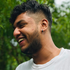
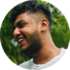
image size fix

diff --git a/scripts/imageOptimize.ts b/scripts/imageOptimize.ts
@@ -9,9 +9,10 @@ import sharp from 'sharp'; // You would need to install this: npm install sharp
 // ============================================================================
 const RESIZE_CONFIG = [
     // Format: { path: string, dimensions: string, quality: number }
-    { path: '../public/images/projects/irs-calculator', dimensions: '800x600', quality: 85 },
-    { path: '../public/images/projects/wkdkavishka-vue', dimensions: '800x600', quality: 85 },
-    { path: '../public/images/team', dimensions: '800x600', quality: 85 },
+    { path: '../public/images/projects/irs-calculator', dimensions: '400x300', quality: 85 },
+    { path: '../public/images/projects/wkdkavishka-vue', dimensions: '400x300', quality: 85 },
+    { path: '../public/images/team', dimensions: '400x300', quality: 85 },
+    { path: '../public/images/profile', dimensions: '800x600', quality: 85 },
 ];
 // ============================================================================
 
@@ -52,10 +53,29 @@ export class ImageProcessor {
 
                 const filePath = path.join(file.path, file.name);
                 const ext = path.extname(filePath).toLowerCase();
-                
-                // Skip WebP files as they are already in the desired format
+
+                // For WebP files, process them directly
                 if (ext === '.webp') {
-                    console.log(`Skipping already processed WebP file: ${filePath}`);
+                    this.totalProcessed++;
+                    console.log(`\nFound WebP image: ${filePath}`);
+
+                    try {
+                        const tempPath = `${filePath}.tmp`;
+                        const needsResize = await this.needsResize(filePath, [width, height]);
+
+                        if (needsResize) {
+                            await this.resizeImage(filePath, tempPath, [width, height], quality);
+                            // Replace original with resized version
+                            await fs.rename(tempPath, filePath);
+                            console.log(`  ✅ Resized and optimized: ${filePath}`);
+                            this.totalResized++;
+                        } else {
+                            console.log('✅ Image already optimized, skipping.');
+                        }
+                    } catch (error) {
+                        console.error(`❌ Failed to process WebP ${filePath}:`, error);
+                        this.totalErrors++;
+                    }
                     continue;
                 }
                 const fileExtension = path.extname(filePath).toLowerCase();
@@ -93,6 +113,22 @@ export class ImageProcessor {
         }
     }
 
+    private async needsResize(
+        filePath: string,
+        targetDimensions: [number, number]
+    ): Promise<boolean> {
+        try {
+            const metadata = await sharp(filePath).metadata();
+            if (!metadata.width || !metadata.height) return true;
+
+            // Check if image is larger than target dimensions
+            return metadata.width > targetDimensions[0] || metadata.height > targetDimensions[1];
+        } catch (error) {
+            console.error(`❌ Failed to get image dimensions for ${filePath}:`, error);
+            return false;
+        }
+    }
+
     private async needsProcessing(
         originalPath: string,
         webpPath: string,
@@ -101,13 +137,9 @@ export class ImageProcessor {
         try {
             // Check if the WebP version exists and has the correct dimensions
             await fs.access(webpPath); // Throws if file doesn't exist
-            const metadata = await sharp(webpPath).metadata();
-            if (metadata.width === targetDimensions[0] && metadata.height === targetDimensions[1]) {
-                return false;
-            }
-            return true;
-        } catch (error) {
-            console.error(`❌ Failed to check WebP file:`, error);
+            const needsResize = await this.needsResize(webpPath, targetDimensions);
+            return needsResize;
+        } catch (_error) {
             // WebP file doesn't exist, so it needs processing
             return true;
         }

diff --git a/src/app/about/page.tsx b/src/app/about/page.tsx
@@ -12,10 +12,10 @@ export default function Page() {
     return (
         <section id="about" className="flex min-h-screen items-center justify-center px-6 py-20">
             <div className="mx-auto flex max-w-4xl flex-col items-center">
-                <h2 className="mb-4 bg-gradient-to-r from-blue-600 to-purple-600 bg-clip-text text-center text-4xl font-bold text-transparent">
+                <h2 className="mb-4 bg-gradient-to-r from-blue-600 to-purple-600 bg-clip-text text-center text-5xl font-bold text-transparent">
                     About Me
                 </h2>
-                <p className="mx-auto mb-12 max-w-2xl text-center text-lg text-gray-600">
+                <p className="mx-auto mb-12 max-w-2xl text-center text-xl text-gray-600">
                     Get to know me better
                 </p>
                 <div className="grid grid-cols-1 justify-between md:grid-cols-2">
@@ -49,9 +49,9 @@ export default function Page() {
                     </div>
 
                     {/* Second Column: About Texts and Download CV */}
-                    <div className="flex flex-col justify-between gap-6 py-2">
+                    <div className="flex flex-col justify-between gap-6 py-4 font-bold">
                         {Personal.about.slice(1).map((paragraph, index) => (
-                            <p key={index} className="text-center text-xl text-gray-900">
+                            <p key={index} className="text-center text-xl text-gray-700">
                                 {paragraph}
                             </p>
                         ))}

diff --git a/src/data/site-data.ts b/src/data/site-data.ts
@@ -81,7 +81,7 @@ const siteData: SiteData = {
         title: 'Software Engineer | DevOps Engineer',
         location: 'Colombo, Sri Lanka',
         email: 'w.k.d.kavishka@gmail.com',
-        profileImage: '/images/profile.webp',
+        profileImage: '/images/profile/profile.webp',
         about: [
             'Take your business to the next level',
             'Taking on challenging projects and delivering exceptional software solutions.',

diff --git a/scripts/genMetaImages.ts b/scripts/genMetaImages.ts
@@ -44,7 +44,7 @@ export async function generateMetaImages() {
     // Use metaImage.jpg from the same directory as the script
     const __filename = fileURLToPath(import.meta.url);
     const scriptDir = dirname(__filename);
-    const inputImage = join(scriptDir, 'metaImage.jpg');
+    const inputImage = join(scriptDir, 'metaImage.webp');
     const outputDir = join(process.cwd(), 'public/images/meta');
 
     // Check if source image exists
